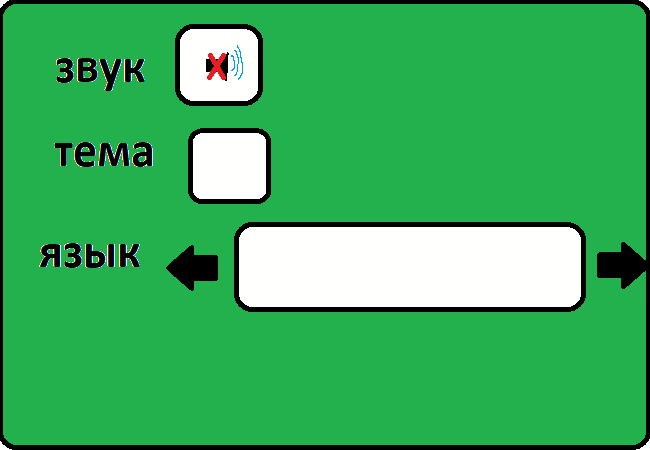
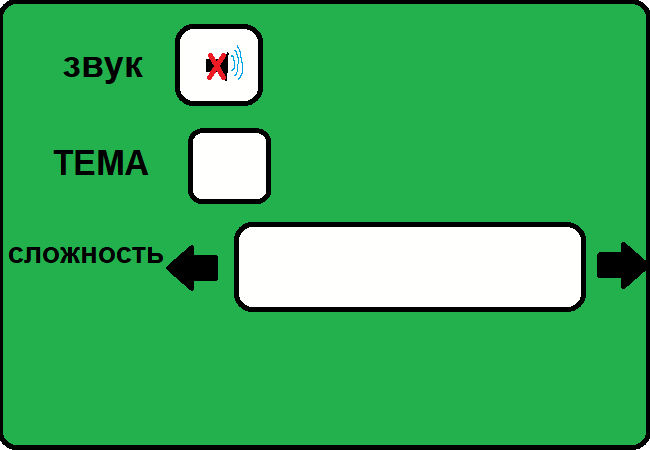
hard
harding

Changed region(s): [[0.0, 0.5289, 0.2462, 0.6222], [0.0615, 0.3111, 0.2462, 0.4044], [0.0923, 0.1244, 0.2462, 0.2178]]

diff --git a/bird is flappy.py b/bird is flappy.py
@@ -15,8 +15,8 @@ font2 = pygame.font.Font(None, 80)
 imgBG = pygame.image.load("background.png")
 imgBird = pygame.image.load("bird_Skin.png")
 imgBird2 = pygame.image.load("bird_Skin2.png")
-imgPT = pygame.image.load("pipe_top2.png")
-imgPB = pygame.image.load("pipe_bottom2.png")
+imgPT = pygame.image.load("pipe_top.png")
+imgPB = pygame.image.load("pipe_bottom.png")
 imgBG_night = pygame.image.load("background_night.png")
 imgHEAR_DIE = pygame.image.load("HEART_DIE.png")
 imgMenu = pygame.image.load("Menu.png")
@@ -31,10 +31,12 @@ imgApple = pygame.image.load("apple.png")
 imgBOMB = pygame.image.load("BOMB.png")
 imgPineapple = pygame.image.load("pineapple.png")
 imgWatermelon = pygame.image.load("WATERMELON.png")
+imgHARD = pygame.image.load("background_hard.png")
+imgHARD2 = pygame.image.load("bird_Skin_hard.png")
 flapp_sound = pygame.mixer.Sound("flapp.wav")
 pygame.mixer.music.load("BG_SOUND.mp3")
 flapp_sound.set_volume(0.1)
-pygame.mixer.music.set_volume(0.2)
+pygame.mixer.music.set_volume(0.1)
 pygame.mixer.music.play()
 fon = imgBG
 bird = imgBird
@@ -42,6 +44,10 @@ FpS = r.randrange(1,2)
 Menu = imgMenu
 ExitMenu = 1
 mode = 1
+harder = "easy"
+
+pygame.display.set_caption("Bird is not flappy")
+pygame.display.set_icon(pygame.image.load("icon.png"))
 
 p = r.randrange(0, 200)
 pr = p + 380
@@ -61,6 +67,7 @@ dscores = 0
 Menu2 = pygame.Rect(70, 100, 650, 450)
 MenuOFF = pygame.Rect(70, 100, 650, 450)
 spawn_F = r.randrange(1, 4)
+hardcore = 1
 
 RED = (255, 0, 0)
 imgMenu.set_colorkey(RED)
@@ -182,8 +189,22 @@ while play:
                         imgBird.set_alpha(300)
                         imgMenu.set_alpha(300)
                         flapp_sound.play()
-                        
 
+
+
+
+    if hardcore == 1:
+        harder = "easy"
+    if hardcore == 2:
+        harder = "normal"
+    if hardcore == 3:
+        harder = "hard"
+    if hardcore == 4:
+        harder = "nightmare"
+    if hardcore == 5:
+        hardcore == 1
+
+                    
     if CLOSE:
         play = False
 
@@ -243,18 +264,26 @@ while play:
             scores = 0
             dscores = 0
 
+        if dscores == 1:
+            FPS += 1
+        if scores  == 0:
+            FPS = 60
+
+        if dscores == 10:
+            dscores = 0
+
 
 
         if state == "bonus":
             state == "play"
 
 
-        if lives <= 0:
-                lives = 3
-                scores = 0
+    if lives <= 0:
+            lives = 3
+            scores = 0
 
-        if scores > maxs:
-            maxs = scores
+    if scores > maxs:
+        maxs = scores
 
     if state == "start":
         if click and timer == 0 and len(pipes) == 0:
@@ -278,8 +307,23 @@ while play:
         pr = p + 380
         pt = r.randrange(p, pr)
 
+
+        if harder == "easy":
+            pipex = 400
+            fon = imgBG
+        if harder == "normal":
+            pipex = 300
+            fon = imgBG
+        if harder == "hard":
+            pipex = 150
+            fon = imgBG
+        if harder == "nightmare":
+            fon = imgHARD
+            pipex = 52
+
+
         if state == "play":
-            if len(pipes) == 0 or pipes[len(pipes)-1].x < WIDTH - 300:
+            if len(pipes) == 0 or pipes[len(pipes)-1].x < WIDTH - pipex:
                 pipes.append(pygame.Rect(WIDTH, p, 52, hard))
                 pipes.append(pygame.Rect(WIDTH, p + 380, 52, hard))
 
@@ -337,6 +381,8 @@ while play:
         window.blit(THEME, DARK_TEM)
         MULTIVERSE.set_alpha(0)
         imgBACK.set_alpha(300)
+        text = font2.render(harder, 1, pygame.Color("black"))
+        window.blit(text, (350, 340))
         for event in events:
             if event.type == pygame.MOUSEBUTTONDOWN: 
                 mouse_presses = pygame.mouse.get_pressed()
@@ -350,6 +396,16 @@ while play:
                         else:
                             theme = 1
                             fon = imgBG 
+    if state == "settings":
+        for event in events:
+            if event.type == pygame.MOUSEBUTTONDOWN: 
+                mouse_presses = pygame.mouse.get_pressed()
+                if mouse_presses[0]:
+                    pos6 = pygame.mouse.get_pos()
+                    if pos[1] > 346 and pos [1] < 384 and pos[0] > 665 and pos[0] < 705:
+                        hardcore += 1
+                    if pos[1] > 338 and pos [1] < 395 and pos[0] > 238 and pos[0] < 289:
+                        hardcore -= 1
 
     window.blit(Clocks, clock_item)
     if state == "play":
